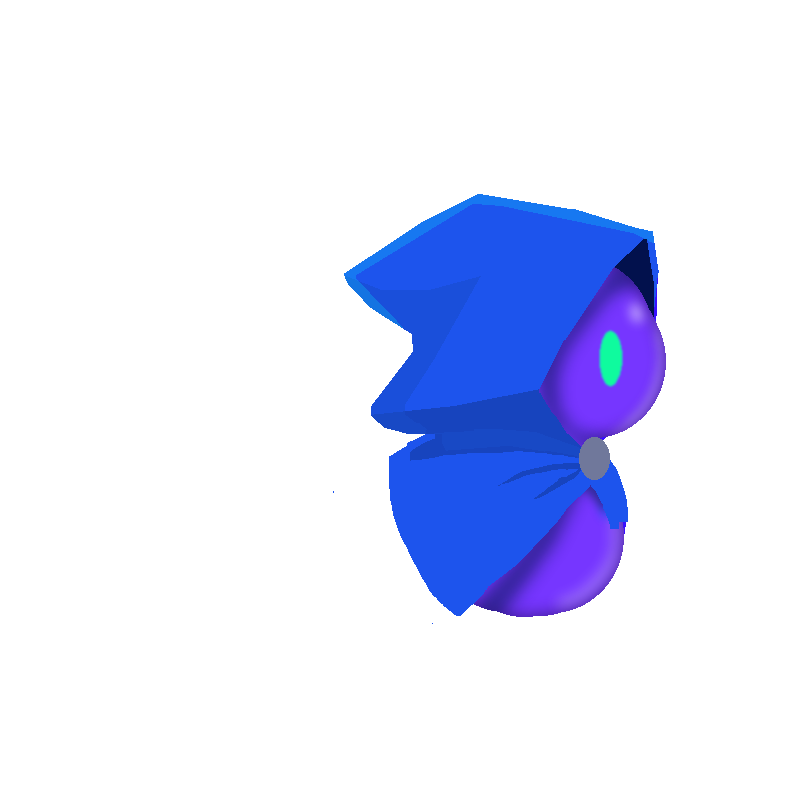
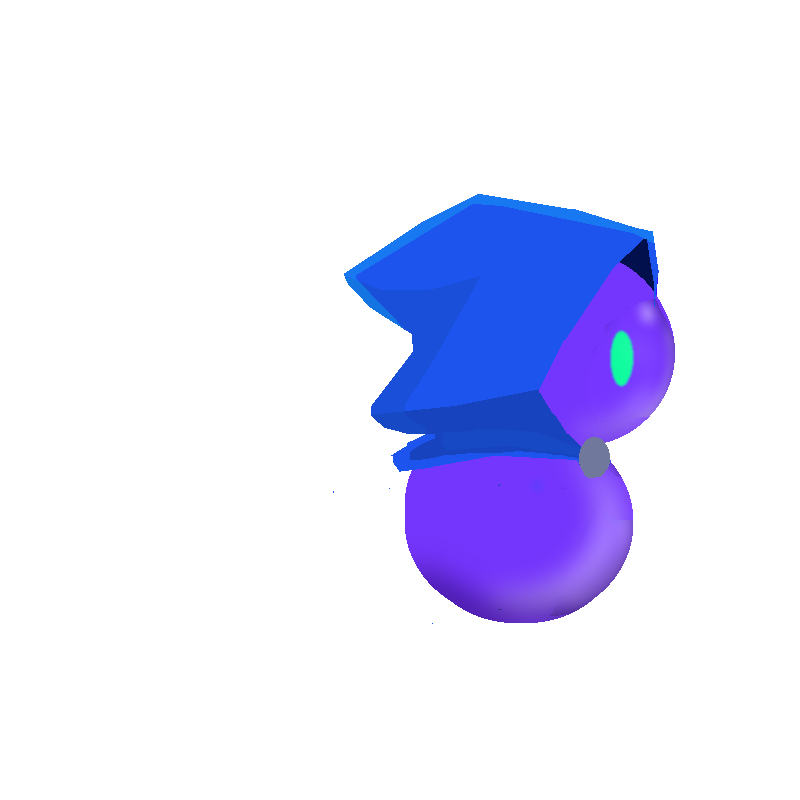
new cloak image, small tweaks to index.html to try to align new cloak sprite, enhancements by Claude to capeLab

Changed region(s): [[0.4688, 0.3125, 0.8438, 0.7812]]

diff --git a/capeLab.html b/capeLab.html
@@ -69,7 +69,7 @@ const B = {            // BLOB BODY
   jumpV: 1000, gravity: 2800, dashMul: 1.7,
 };
 const C = {            // CAPE SIM (WORLD PX; SEE ALSO anti-curl BLOCK)
-  segments: 14, segLen: 9, gravity: 1800, drag: 1.2, nDrag: 9, tDrag: 0.4,
+  segments: 14, segLen: 14, gravity: 1800, drag: 1.2, nDrag: 9, tDrag: 0.4,
   lift: 0.55, flutter: 260, backBias: 0, wind: 0,
   hangDeg: 55, sag: 0.55, vRef: 500, restPull: 45,
   iterations: 8, bend: 0.35, step: 1 / 120, maxSteps: 6,
@@ -85,6 +85,10 @@ const L = {            // LOOK
   w1: 54, taper: 1.0, ripple: 0.06, split: 0.55,
   top: "#1d54ed", bottom: "#1a4fda", rim: "#1078f0", dark: "#1040b8",
   rimW: 3, folds: true, layer: "behind",
+  // GHOST TAIL (DISSOLVE). disStart: 0 = ROOT, 1 = HEM. disAmt: HOW GONE THE HEM GETS (1 = FULLY).
+  dis: true, disStart: 0.62, disAmt: 0.9, disCell: 14, disEdge: 0.22, disFlow: 70, disSpeed: 0.5, disFade: 0.3, disGlow: 1.0,
+  mode: "tendrils", tCount: 5, tSplit: 0.4, tAmp: 28, tSpeed: 5, tSpread: 0.45, tTaper: 0.8, tOverlap: 0.35, tLenVar: 0.3, tWaves: 1.25, tIdle: 0.45, tGain: 0.9,
+  disSparks: 0.3, disColA: "#c8fcff", disColB: "#dc4ce8",
 };
 const PIN = { ax: 389.5, ay: 461.5, bx: 459.5, by: 608.5 };   // THE TWO PINK MARKERS: TOP + BOTTOM OF THE CLOAK'S BACK EDGE (ART PX). 1-PIN MODE USES THEIR MIDPOINT. IN DEBUG MODE (G) DRAG THE DOTS.
 
@@ -465,7 +469,190 @@ function drawBackground() {
   for (let x = Math.floor(cam.x / 400) * 400; x < cam.x + W; x += 400) ctx.fillText(Math.round(x / 100) + "m", x - cam.x + 3, groundY + 14);
 }
 
-function drawCape() { if (cape.chains && cape.chains.length === 2) drawStrip(); else drawRibbon(); }
+/* ---------- GHOST TAIL: WEBGL CAPE STRIP + DISSOLVE (PORT OF index.html's DISSOLVE_FRAG) ----------
+   THE CAPE STRIP IS DRAWN AS A TEXTURED-STYLE MESH (UV: u ACROSS 0..1 TOP->BOTTOM EDGE, v ALONG 0..1 ROOT->HEM) INTO AN
+   OFFSCREEN WEBGL CANVAS, THEN COMPOSITED ONTO THE 2D CANVAS SO THE "BEHIND / IN FRONT OF BLOB" LAYERING STILL WORKS.
+   THE DISSOLVE THRESHOLD IS A FUNCTION OF v: NOTHING GONE ABOVE disStart, EVERYTHING GONE AT THE HEM (x disAmt).
+   THE NOISE IS ANCHORED TO THE CLOTH (px ALONG / ACROSS IT) AND SCROLLS TOWARD THE HEM, SO THE BURN FRONT LICKS OFF THE TAIL. */
+const GHOST_VERT = `
+attribute vec2 a_pos; attribute vec2 a_uv; attribute vec2 a_sh; attribute vec2 a_ed;
+uniform vec2 u_res; varying vec2 v_uv; varying vec2 v_sh; varying vec2 v_ed;
+void main(){ v_uv=a_uv; v_sh=a_sh; v_ed=a_ed; gl_Position=vec4(a_pos/u_res*2.0-1.0, 0.0, 1.0)*vec4(1.0,-1.0,1.0,1.0); }`;
+const GHOST_FRAG = `
+precision highp float;
+varying vec2 v_uv; varying vec2 v_sh; varying vec2 v_ed;
+uniform vec3 u_top, u_bot, u_rim, u_dark, u_edgeA, u_edgeB;
+uniform float u_split, u_rimW, u_folds, u_wid, u_len, u_time, u_endRim;
+uniform float u_on, u_start, u_amt, u_cell, u_edge, u_flow, u_fade, u_glow;
+float hash21(vec2 p){ p=fract(p*vec2(123.34,456.21)); p+=dot(p,p+45.32); return fract(p.x*p.y); }
+float vnoise(vec2 p){ vec2 i=floor(p), f=fract(p); vec2 u=f*f*(3.0-2.0*f);
+  return mix(mix(hash21(i),hash21(i+vec2(1.0,0.0)),u.x), mix(hash21(i+vec2(0.0,1.0)),hash21(i+vec2(1.0,1.0)),u.x), u.y); }
+void main(){
+  float u=v_uv.x, v=v_uv.y;
+  float sp=smoothstep(u_split-0.01,u_split+0.01,u);
+  vec3 col=mix(mix(u_top,u_dark,v*0.25), mix(u_bot,u_dark,v*0.45), sp);
+  col=mix(col,u_dark,clamp(v_sh.x,0.0,1.0)*0.55);
+  col=mix(col,u_dark,v_sh.y*0.6);
+  if(u_folds>0.5){ float f=min(abs(u-0.3),abs(u-0.8))*u_wid; col=mix(col,u_dark*0.35,(1.0-smoothstep(0.4,1.1,f))*0.22); }
+  float dA=v_ed.x*v_ed.y, dB=(1.0-v_ed.x)*v_ed.y, dE=u_endRim>0.5?(1.0-v)*u_len:1e4;   // v_ed = (LOCAL ACROSS 0..1, LOCAL WIDTH PX): TENDRILS GET THEIR OWN SIDE RIMS
+  float rA=1.0-smoothstep(u_rimW*0.5-0.5,u_rimW*0.5+0.5,dA);
+  float rB=max(1.0-smoothstep(u_rimW*0.5-0.5,u_rimW*0.5+0.5,dB), 1.0-smoothstep(u_rimW*0.5-0.5,u_rimW*0.5+0.5,dE));
+  col=mix(col,u_rim,rA); col=mix(col,u_dark,rB);
+  float a=1.0;
+  if(u_on>0.5){
+    float t=clamp((v-u_start)/max(1.0-u_start,0.001),0.0,1.0);
+    vec2 px=vec2(v*u_len - u_time*u_flow, u*u_wid);
+    float n=vnoise(px/u_cell)*0.65+vnoise(px/(u_cell*0.4)+17.0)*0.35;
+    n=clamp((n-0.18)/0.64,0.0,1.0);
+    float amount=t*u_amt;
+    float thr=amount*(1.0+u_edge)-u_edge;
+    if(n<thr) discard;
+    float band=(n-thr)/u_edge;
+    if(band<1.0 && t>0.0){ col=mix(u_edgeA,u_edgeB,band)*(1.0+0.6*u_glow*(1.0-band)); }
+    a*=1.0-u_fade*t;
+  }
+  gl_FragColor=vec4(col*a,a);
+}`;
+const ghost = { gl: null, tried: false, n: 0, K: 9 };
+function ghostInit() {
+  ghost.tried = true;
+  try {
+    const cv = document.createElement("canvas"), gl = cv.getContext("webgl", { premultipliedAlpha: true, alpha: true, antialias: true });
+    if (!gl) return;
+    const sh = (t, s) => { const o = gl.createShader(t); gl.shaderSource(o, s); gl.compileShader(o); if (!gl.getShaderParameter(o, gl.COMPILE_STATUS)) throw new Error(gl.getShaderInfoLog(o)); return o; };
+    const pr = gl.createProgram(); gl.attachShader(pr, sh(gl.VERTEX_SHADER, GHOST_VERT)); gl.attachShader(pr, sh(gl.FRAGMENT_SHADER, GHOST_FRAG)); gl.linkProgram(pr);
+    if (!gl.getProgramParameter(pr, gl.LINK_STATUS)) throw new Error(gl.getProgramInfoLog(pr));
+    ghost.cv = cv; ghost.gl = gl; ghost.pr = pr; ghost.vb = gl.createBuffer(); ghost.ib = gl.createBuffer(); ghost.U = {};
+    ghost.loc = { pos: gl.getAttribLocation(pr, "a_pos"), uv: gl.getAttribLocation(pr, "a_uv"), sh: gl.getAttribLocation(pr, "a_sh"), ed: gl.getAttribLocation(pr, "a_ed") };
+  } catch (e) { console.warn("ghost tail disabled:", e.message); ghost.gl = null; }
+}
+const ghostU = (name) => { if (!(name in ghost.U)) ghost.U[name] = ghost.gl.getUniformLocation(ghost.pr, name); return ghost.U[name]; };
+const speedNorm = () => Math.min(1.5, Math.hypot(cape.vel.x, cape.vel.y) / C.vRef);
+function ghostStart() { return clamp(L.disStart - L.disSpeed * speedNorm() * 0.5, 0, 0.98); }   // FASTER = THE DISSOLVE CREEPS UP THE CAPE
+
+function drawStripGL() {   // RETURNS false IF WEBGL ISN'T AVAILABLE (CALLER FALLS BACK TO THE FLAT CANVAS-2D STRIP)
+  if (!ghost.tried) ghostInit();
+  const gl = ghost.gl; if (!gl) return false;
+  const A = cape.chains[0].p, Bp = cape.chains[1].p, n = A.length, K = ghost.K;
+  if (n < 3) return true;
+  const cw = Math.round(W * DPR), ch = Math.round(H * DPR);
+  if (ghost.cv.width !== cw || ghost.cv.height !== ch) { ghost.cv.width = cw; ghost.cv.height = ch; }
+  gl.viewport(0, 0, cw, ch); gl.clearColor(0, 0, 0, 0); gl.clear(gl.COLOR_BUFFER_BIT);
+  let sg = 0; for (let i = 0; i < n - 1; i++) sg += Math.sign(quadArea(A, Bp, i)); const s0 = sg >= 0 ? 1 : -1;
+  // WORLD -> SCREEN: SAME TRANSFORM THE 2D PATH GETS (CAMERA SCROLL + OPTIONAL MIRROR SQUASH ON TURNS)
+  const camX = Math.round(cam.x);
+  let mir = 1; if (C.turnMode === "mirror" && blob.turnT < 1) { const e = blob.turnT * blob.turnT * (3 - 2 * blob.turnT); mir = lerp(-1, 1, e); }
+  const tend = L.mode === "tendrils";
+  const T = clamp(Math.round(L.tCount), 2, 9), M = 18, KT = 3;
+  const iS = tend ? clamp(Math.round(L.tSplit * (n - 1)), 2, n - 2) : n - 1;          // LAST ROW OF THE SOLID CLOTH BODY (TENDRILS TAKE OVER FROM HERE)
+  const nBody = n * K, nVert = nBody + (tend ? T * M * KT : 0);
+  const data = new Float32Array(nVert * 8); let o = 0, wsum = 0;
+  const put = (x, y, u, v, sh, bk, lu, lw) => { data[o++] = (blob.x + mir * (x - blob.x) - camX) * DPR; data[o++] = y * DPR; data[o++] = u; data[o++] = v; data[o++] = sh; data[o++] = bk; data[o++] = lu; data[o++] = lw; };
+  for (let i = 0; i < n; i++) {
+    const fold = clamp((foldAt(A, i) + foldAt(Bp, i)) / 2 / 0.7, 0, 1);
+    const back = i < n - 1 ? (quadArea(A, Bp, i) * s0 < 0 ? 1 : 0) : (quadArea(A, Bp, i - 1) * s0 < 0 ? 1 : 0);
+    const wr = Math.hypot(A[i].x - Bp[i].x, A[i].y - Bp[i].y); wsum += wr;
+    for (let j = 0; j < K; j++) {
+      const u = j / (K - 1);
+      put(lerp(A[i].x, Bp[i].x, u), lerp(A[i].y, Bp[i].y, u), u, i / (n - 1), fold, back, u, wr);
+    }
+  }
+  if (tend) {   // TENDRILS: EACH ONE FOLLOWS THE CLOTH SPINE AT ITS SLICE OF THE WIDTH, WITH A TRAVELLING SINE OFFSET THAT GROWS ROOT -> TIP, AND TAPERS TO A POINT
+    const rowPt = (r, u) => { const i = Math.min(n - 2, Math.floor(r)), f = r - i; const ax = lerp(A[i].x, A[i + 1].x, f), ay = lerp(A[i].y, A[i + 1].y, f), bx = lerp(Bp[i].x, Bp[i + 1].x, f), by = lerp(Bp[i].y, Bp[i + 1].y, f); return { x: lerp(ax, bx, u), y: lerp(ay, by, u), cx: bx - ax, cy: by - ay }; };
+    const ampScale = Math.min(1.8, L.tIdle + L.tGain * speedNorm());
+    const rootW = Math.hypot(A[iS].x - Bp[iS].x, A[iS].y - Bp[iS].y);
+    for (let j = 0; j < T; j++) {
+      const tp = tendrilParams(j, T), uj = (j + 0.5) / T, span = (1 + L.tOverlap) / T;
+      const rootHalf = Math.max(1, rootW * span * 0.5), lf = tp.len, rows = (n - 1 - iS) * lf;
+      let pt = null;
+      for (let m = 0; m < M; m++) {
+        const t = m / (M - 1), r = iS + t * rows;
+        const c = rowPt(r, uj), c2 = rowPt(Math.min(n - 1.001, r + 0.5), uj), c0 = rowPt(Math.max(iS, r - 0.5), uj);
+        let tx = c2.x - c0.x, ty = c2.y - c0.y; const tl = Math.hypot(tx, ty) || 1; tx /= tl; ty /= tl;
+        const off = L.tAmp * tp.amp * ampScale * Math.pow(t, 1.25) * Math.sin(TAU * tp.waves * t - tendril.phase[j]);
+        const px = c.x - ty * off, py = c.y + tx * off;
+        const cl = Math.hypot(c.cx, c.cy) || 1, cxn = c.cx / cl, cyn = c.cy / cl;
+        const hw = rootHalf * Math.pow(Math.max(0, 1 - t), L.tTaper);
+        const gv = r / (n - 1), shade = tp.shade;
+        for (let q = 0; q < KT; q++) {
+          const lu = q / (KT - 1), side = (lu - 0.5) * 2 * hw;
+          put(px + cxn * side, py + cyn * side, clamp(uj + (lu - 0.5) * span, 0, 1), gv, shade, 0, lu, Math.max(0.01, hw * 2));
+        }
+      }
+    }
+  }
+  const key = n + "_" + (tend ? T : 0) + "_" + M;
+  if (ghost.key !== key) {
+    const idx = []; for (let i = 0; i < n - 1; i++) for (let j = 0; j < K - 1; j++) { const a = i * K + j, b = a + 1, c = a + K, d = c + 1; idx.push(a, b, c, b, d, c); }
+    ghost.bodyAll = idx.length;
+    if (tend) for (let j = 0; j < T; j++) for (let m = 0; m < M - 1; m++) for (let q = 0; q < KT - 1; q++) { const a = nBody + (j * M + m) * KT + q, b = a + 1, c = a + KT, d = c + 1; idx.push(a, b, c, b, d, c); }
+    gl.bindBuffer(gl.ELEMENT_ARRAY_BUFFER, ghost.ib); gl.bufferData(gl.ELEMENT_ARRAY_BUFFER, new Uint16Array(idx), gl.STATIC_DRAW); ghost.key = key; ghost.count = idx.length;
+  }
+  gl.useProgram(ghost.pr);
+  gl.bindBuffer(gl.ARRAY_BUFFER, ghost.vb); gl.bufferData(gl.ARRAY_BUFFER, data, gl.DYNAMIC_DRAW);
+  const st = 32, lc = ghost.loc;
+  gl.enableVertexAttribArray(lc.pos); gl.vertexAttribPointer(lc.pos, 2, gl.FLOAT, false, st, 0);
+  gl.enableVertexAttribArray(lc.uv); gl.vertexAttribPointer(lc.uv, 2, gl.FLOAT, false, st, 8);
+  gl.enableVertexAttribArray(lc.sh); gl.vertexAttribPointer(lc.sh, 2, gl.FLOAT, false, st, 16);
+  gl.enableVertexAttribArray(lc.ed); gl.vertexAttribPointer(lc.ed, 2, gl.FLOAT, false, st, 24);
+  gl.bindBuffer(gl.ELEMENT_ARRAY_BUFFER, ghost.ib);
+  gl.enable(gl.BLEND); gl.blendFunc(gl.ONE, gl.ONE_MINUS_SRC_ALPHA);                      // PREMULTIPLIED OUTPUT
+  const c3 = (h) => hexRGB(h).map((v) => v / 255), e3 = (h) => hexRGB(h).map((v) => v / 255);
+  gl.uniform2f(ghostU("u_res"), cw, ch);
+  gl.uniform3fv(ghostU("u_top"), c3(L.top)); gl.uniform3fv(ghostU("u_bot"), c3(L.bottom)); gl.uniform3fv(ghostU("u_rim"), c3(L.rim)); gl.uniform3fv(ghostU("u_dark"), c3(L.dark));
+  gl.uniform3fv(ghostU("u_edgeA"), e3(L.disColA)); gl.uniform3fv(ghostU("u_edgeB"), e3(L.disColB));
+  gl.uniform1f(ghostU("u_split"), L.split); gl.uniform1f(ghostU("u_rimW"), L.rimW); gl.uniform1f(ghostU("u_folds"), L.folds ? 1 : 0);
+  gl.uniform1f(ghostU("u_wid"), Math.max(1, (wsum / n) * DPR / DPR)); gl.uniform1f(ghostU("u_len"), (n - 1) * C.segLen);
+  gl.uniform1f(ghostU("u_time"), cape.t || 0); gl.uniform1f(ghostU("u_endRim"), tend ? 0 : 1);
+  gl.uniform1f(ghostU("u_on"), L.dis ? 1 : 0); gl.uniform1f(ghostU("u_start"), ghostStart()); gl.uniform1f(ghostU("u_amt"), L.disAmt);
+  gl.uniform1f(ghostU("u_cell"), Math.max(2, L.disCell)); gl.uniform1f(ghostU("u_edge"), Math.max(0.01, L.disEdge));
+  gl.uniform1f(ghostU("u_flow"), L.disFlow); gl.uniform1f(ghostU("u_fade"), L.disFade); gl.uniform1f(ghostU("u_glow"), L.disGlow);
+  const bodyIdx = tend ? iS * (K - 1) * 6 : ghost.bodyAll;
+  gl.drawElements(gl.TRIANGLES, bodyIdx, gl.UNSIGNED_SHORT, 0);
+  if (tend) gl.drawElements(gl.TRIANGLES, ghost.count - ghost.bodyAll, gl.UNSIGNED_SHORT, ghost.bodyAll * 2);
+  ctx.save(); ctx.setTransform(1, 0, 0, 1, 0, 0); ctx.drawImage(ghost.cv, 0, 0); ctx.restore();   // 1:1 DEVICE PIXELS
+  return true;
+}
+
+/* ---------- TENDRILS: PER-BLADE RANDOM-BUT-FIXED PARAMS + ACCUMULATED PHASE (SO SPEED CHANGES NEVER JUMP THE WAVE) ---------- */
+const tendril = { phase: new Array(12).fill(0) };
+const hsh = (j, s) => { const x = Math.sin(j * 127.1 + s * 311.7) * 43758.5453; return x - Math.floor(x); };
+function tendrilParams(j, T) {
+  const mid = 1 - Math.abs((j + 0.5) / T - 0.5) * 2;                                       // CENTRE BLADES RUN A BIT LONGER, EDGES SHORTER
+  return {
+    amp: 0.7 + 0.6 * hsh(j, 1), waves: L.tWaves * (0.8 + 0.5 * hsh(j, 2)),
+    len: clamp(1 - L.tLenVar * (0.6 * hsh(j, 3) + 0.4 * (1 - mid)), 0.3, 1),
+    shade: 0.1 + 0.55 * hsh(j, 4),                                                          // DARKER BLADES READ AS FURTHER BACK
+    speed: L.tSpeed * (1 + L.tSpread * (hsh(j, 5) * 2 - 1)),
+  };
+}
+function tendrilStep(dt) { const T = clamp(Math.round(L.tCount), 2, 9), boost = 1 + 0.8 * speedNorm(); for (let j = 0; j < T; j++) tendril.phase[j] += dt * tendrilParams(j, T).speed * boost; }
+
+/* ---------- SPARKS: TINY EMBERS SHED FROM THE DISSOLVING TAIL (2D, ADDITIVE) ---------- */
+const sparks = [];
+function sparksStep(dt) {
+  if (!L.dis || !cape.chains || cape.chains.length !== 2 || dt <= 0) { sparks.length = 0; return; }
+  const A = cape.chains[0].p, Bp = cape.chains[1].p, n = A.length, st = ghostStart();
+  let spawn = L.disSparks * 60 * dt * (0.4 + speedNorm());
+  while (spawn > 0 && sparks.length < 160) {
+    if (Math.random() > spawn) break; spawn -= 1;
+    const v = lerp(st, 1, Math.pow(Math.random(), 0.6)) * (n - 1), i = Math.min(n - 2, Math.floor(v)), f = v - i, u = Math.random();
+    const ax = lerp(A[i].x, A[i + 1].x, f), ay = lerp(A[i].y, A[i + 1].y, f), bx = lerp(Bp[i].x, Bp[i + 1].x, f), by = lerp(Bp[i].y, Bp[i + 1].y, f);
+    sparks.push({ x: lerp(ax, bx, u), y: lerp(ay, by, u), vx: cape.vel.x * 0.25 + (Math.random() - 0.5) * 50, vy: -20 - Math.random() * 70, life: 0.5 + Math.random() * 0.6, age: 0, hot: Math.random() });
+  }
+  for (let i = sparks.length - 1; i >= 0; i--) { const s = sparks[i]; s.age += dt; if (s.age >= s.life) { sparks.splice(i, 1); continue; } s.x += s.vx * dt; s.y += s.vy * dt; s.vx *= 1 - 1.5 * dt; s.vy -= 20 * dt; }
+}
+function drawSparks() {
+  if (!sparks.length) return;
+  ctx.save(); ctx.globalCompositeOperation = "lighter";
+  for (const s of sparks) { const t = s.age / s.life, r = 2.2 * (1 - t) + 0.6; ctx.globalAlpha = (1 - t) * 0.9; ctx.fillStyle = s.hot > 0.5 ? L.disColA : L.disColB; ctx.fillRect(s.x - r, s.y - r, r * 2, r * 2); }
+  ctx.restore();
+}
+
+function drawCape() {
+  if (cape.chains && cape.chains.length === 2) { if (!drawStripGL()) drawStrip(); drawSparks(); }
+  else drawRibbon();
+}
 
 function drawRibbon() { // 1 PIN: THE SPINE GETS A WIDTH PERPENDICULAR TO ITS OWN DIRECTION
   const Pt = cape.p, n = Pt.length;
@@ -706,6 +893,35 @@ function buildPanel() {
   select(s, L, "layer", "cape layer", [["behind", "behind blob"], ["front", "in front of blob"]]);
   color(s, L, "top", "top colour"); color(s, L, "bottom", "bottom colour"); color(s, L, "rim", "rim colour"); color(s, L, "dark", "shade colour");
 
+  s = section("Tendrils", true);
+  hint(s, "THE SOLID CLOTH BODY RUNS DOWN TO 'SPLIT AT'; BELOW THAT THE CAPE FANS INTO TAPERED TENDRILS THAT RIDE THE VERLET SPINE. EACH GETS A TRAVELLING SINE (OFFSET GROWS ROOT -> TIP) WITH ITS OWN SPEED, WAVELENGTH, PHASE AND LENGTH. 2-PIN MODE ONLY.");
+  select(s, L, "mode", "cape render", [["tendrils", "body + tendrils"], ["strip", "solid strip"]]);
+  slider(s, L, "tCount", "tendrils", 2, 9, 1);
+  slider(s, L, "tSplit", "split at (0 root - 1 hem)", 0.15, 0.9, 0.01);
+  slider(s, L, "tAmp", "wave amplitude (px)", 0, 70, 1);
+  slider(s, L, "tWaves", "waves per tendril", 0.3, 3, 0.05);
+  slider(s, L, "tSpeed", "wave speed (rad/s)", 0, 14, 0.1);
+  slider(s, L, "tSpread", "speed variation", 0, 1, 0.01);
+  slider(s, L, "tIdle", "idle sway", 0, 1.5, 0.01);
+  slider(s, L, "tGain", "speed adds sway", 0, 2, 0.01);
+  slider(s, L, "tTaper", "point sharpness", 0.3, 2.5, 0.05);
+  slider(s, L, "tOverlap", "blade overlap", 0, 1, 0.01);
+  slider(s, L, "tLenVar", "length variation", 0, 0.7, 0.01);
+
+  s = section("Ghost tail (dissolve)", true);
+  hint(s, "THE SPAWN-DISSOLVE SHADER, RUN ALONG THE CAPE: NOTHING IS EATEN BEFORE 'STARTS AT', THE HEM IS FULLY GONE. THE NOISE DRIFTS TOWARD THE HEM SO THE BURN FRONT LICKS OFF THE TAIL. 2-PIN MODE ONLY (1-PIN RIBBON STAYS FLAT).");
+  check(s, L, "dis", "dissolve on");
+  slider(s, L, "disStart", "starts at (0 root - 1 hem)", 0, 0.95, 0.01);
+  slider(s, L, "disAmt", "how gone at hem", 0, 1, 0.01);
+  slider(s, L, "disSpeed", "speed pushes start up", 0, 1.5, 0.05);
+  slider(s, L, "disCell", "noise cell (px)", 3, 40, 1);
+  slider(s, L, "disEdge", "glow band width", 0.02, 0.6, 0.01);
+  slider(s, L, "disGlow", "glow boost", 0, 2, 0.05);
+  slider(s, L, "disFlow", "noise drift (px/s)", -200, 300, 5);
+  slider(s, L, "disFade", "alpha fade at hem", 0, 1, 0.01);
+  slider(s, L, "disSparks", "sparks", 0, 2, 0.05);
+  color(s, L, "disColA", "glow inner"); color(s, L, "disColB", "glow outer");
+
   s = section("Blob");
   slider(s, B, "scale", "scale", 0.3, 1, 0.01);
   slider(s, B, "maxSpeed", "max speed", 200, 1200, 10);
@@ -725,7 +941,7 @@ let last = performance.now();
 function frame(now) {
   const raw = Math.min(0.05, (now - last) / 1000); last = now;
   ui.fps = lerp(ui.fps, 1 / Math.max(raw, 1e-4), 0.05);
-  if (!ui.paused) update(raw * ui.timeScale);
+  if (!ui.paused) { update(raw * ui.timeScale); sparksStep(raw * ui.timeScale); tendrilStep(raw * ui.timeScale); }
   draw();
   if (((now / 100) | 0) !== frame.h) { frame.h = (now / 100) | 0; updateHUD(); }
   requestAnimationFrame(frame);

diff --git a/index.html b/index.html
@@ -108,7 +108,7 @@ const CLOAK_ANCHOR = { x: 0.6, y: 0.7 }; // where on cloak art the attach point 
 const CLOAK_SCALE = 1;             // uniform scale on both cloak layers
 
 const CLOAK_POSE = {
-  run:    { x: 65, y: -87, rot: 0 },
+  run:    { x: 65, y: 30, rot: 0 },
   jump:   { x: 105, y: -125, rot: -20 },
   fall:   { x: -20, y: -150, rot: 30 },
   attack: { x: 55, y: -90, rot: 0 },
